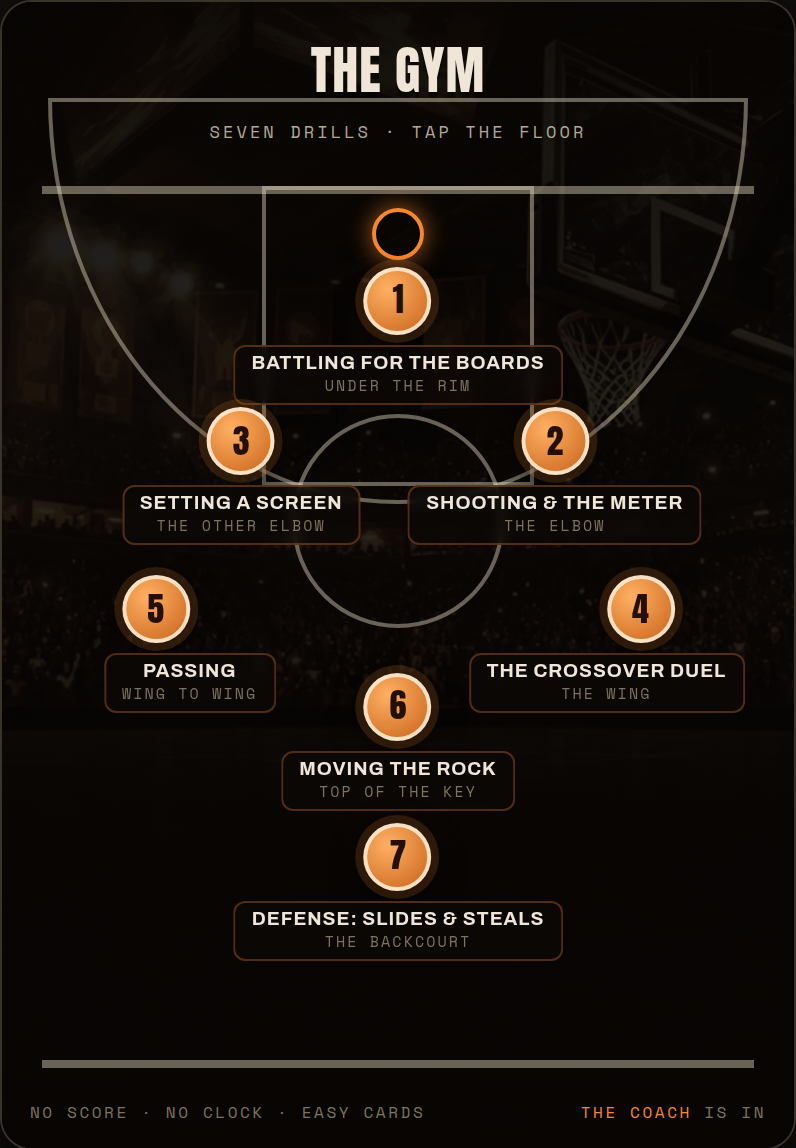
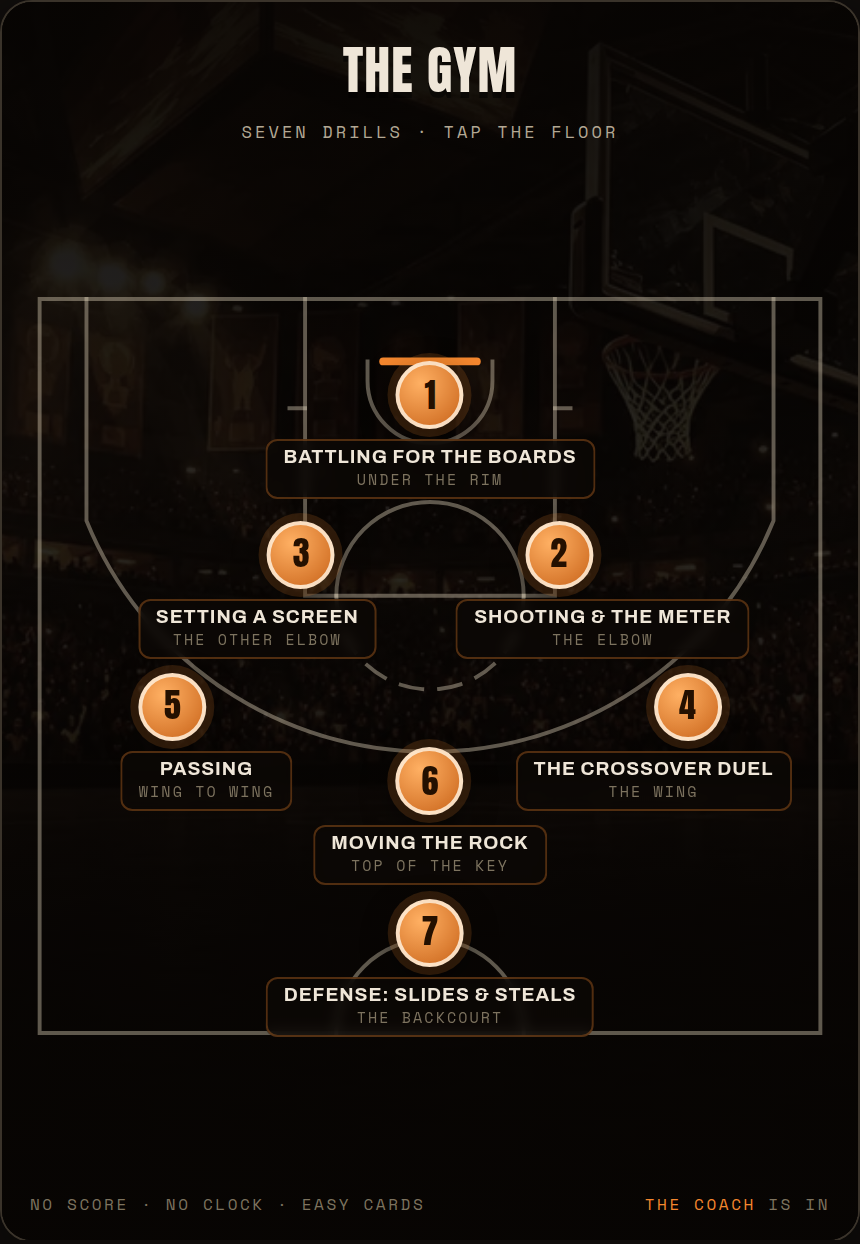
The half court, drawn right this time, and the Gym moves into V0
Aaron: "the half court you made for the gym is not correct. The court
lines are very wrong." He was right and the reason is a rule this repo
already has in writing: build it, source it, or FIND IT ALREADY BUILT.
I invented the geometry with five CSS borders and never measured one of
them.

What was actually wrong, measured against the real court:
  key         38% of the width and 34% deep   should be 32% and 40.4%
  arc         a plain ellipse, sideline to sideline, reaching 36% down
              should reach 61.7%, and the corners should be STRAIGHT
  ft circle   30% wide, floating above the line
              should be 24% and centred ON it
  rim         at 2.5% from the baseline, should be 11.2%
  missing     backboard, restricted area, centre circle, the block

Replaced by docs/play/assets/halfcourt.svg, whose viewBox IS the court:
500 x 470 units at a tenth of a foot each. Corner threes are straight
lines 3 ft off the sideline and the arc meets them at their exact
tangent, 14.198 ft up, which is why the published 14 is really 14.2.
Every measurement is written into the file's desc. The only deliberate
untruth is the stroke width: real lines are 2 in and would render as a
hairline.

The seven stations now sit on real coordinates rather than by eye, and
tools/gym-labels.py lays every puck and label out as a rectangle and
reports overlaps. It found three. Zero now, with the lowest label at
376 px of a 380 px court.
[…]

diff --git a/docs/dev/gym-sample.html b/docs/dev/gym-sample.html
@@ -30,21 +30,17 @@ h1{font-family:Anton;font-weight:400;text-transform:uppercase;font-size:clamp(28
 .gym .hd p{font-family:Mono;font-size:8.5px;letter-spacing:.18em;text-transform:uppercase;
  color:var(--dim);margin:4px 0 0}
 
-/* the floor: a HALF COURT seen from above, drawn from the same geometry the
-   game already draws on its board */
-.floor{position:absolute;left:5%;right:5%;top:16%;bottom:7%;z-index:2}
-.floor .ln{position:absolute;border:2px solid rgba(239,226,200,.42)}
-.base{left:0;right:0;top:0;height:0}
-.key{left:31%;right:31%;top:0;height:34%;border-top:0}
-.circ{left:35%;right:35%;top:26%;aspect-ratio:1;border-radius:50%}
-.arc{left:1%;right:1%;top:-10%;height:46%;border-radius:0 0 50% 50%/0 0 100% 100%;border-top:0}
-.half{left:0;right:0;bottom:0;height:0}
-.rim{position:absolute;left:50%;top:2.5%;width:26px;height:26px;margin-left:-13px;
- border:2.5px solid var(--accent);border-radius:50%;z-index:3;
- box-shadow:0 0 14px -2px var(--accent)}
+/* the floor: the half court, drawn to the real dimensions and living in ONE
+   place, ../play/assets/halfcourt.svg. Its viewBox IS the court, 50 ft by
+   47 ft, so this box keeps aspect-ratio 500/470 and every station below can be
+   placed in real court coordinates rather than by eye.
+   The first cut of this page invented the lines and got five of them wrong.
+   The measurements are in the <desc> of the svg. */
+.floor{position:absolute;left:3%;right:3%;top:23%;aspect-ratio:500/470;z-index:2}
+.floor .ct{display:block;width:100%;height:100%}
 
 /* a station sits WHERE ITS DRILL HAPPENS */
-.st{position:absolute;transform:translate(-50%,-50%);max-width:44%;z-index:5;background:none;border:0;
+.st{position:absolute;transform:translate(-50%,-50%);max-width:62%;z-index:5;background:none;border:0;
  padding:0;cursor:pointer;display:flex;flex-direction:column;align-items:center;gap:5px;
  font-family:inherit;color:inherit;-webkit-tap-highlight-color:transparent}
 .pk{width:34px;height:34px;border-radius:50%;display:grid;place-items:center;
@@ -57,10 +53,14 @@ h1{font-family:Anton;font-weight:400;text-transform:uppercase;font-size:clamp(28
  background:rgba(12,8,6,.74);border:1px solid rgba(245,135,46,.3);border-radius:6px;
  padding:3px 8px;backdrop-filter:blur(3px)}
 .lb b{font-family:Arch;font-size:9.5px;letter-spacing:.05em;text-transform:uppercase}
-/* the wings sit far out, so their labels lean INWARD rather than centring
-   on the puck and reaching back across the lane into station 6 */
-.st[data-k=cross] .lb{margin-right:34px}
-.st[data-k=pass] .lb{margin-left:34px}
+/* Label placement is MEASURED, not eyeballed. tools/gym-labels.py lays the
+   seven pucks and their labels out as rectangles and reports every overlap;
+   these four nudges are what takes it from three collisions to zero, and the
+   lowest label lands at 376 px of a 380 px court. Move a station and re-run it. */
+.st[data-k=shoot]  .lb{margin-left:44px}
+.st[data-k=screen] .lb{margin-right:44px}
+.st[data-k=cross]  .lb{margin-right:34px}
+.st[data-k=pass]   .lb{margin-left:34px}
 .lb i{font-family:Mono;font-style:normal;font-size:7.5px;letter-spacing:.14em;
  text-transform:uppercase;color:var(--faint)}
 @media (hover:hover){.st:hover .pk{transform:scale(1.14);
@@ -90,37 +90,36 @@ live in the Rulebook today, where nobody will ever find them.</p>
     <span class="bg"></span><span class="scrim"></span>
     <div class="hd"><h2>The Gym</h2><p>seven drills · tap the floor</p></div>
     <div class="floor">
-      <span class="ln arc"></span>
-      <span class="ln key"></span>
-      <span class="ln circ"></span>
-      <span class="ln base"></span>
-      <span class="ln half"></span>
-      <span class="rim"></span>
-      <button class="st " style="left:50%;top:17%" data-k="rebound">
+      <img class="ct" src="../play/assets/halfcourt.svg"
+           alt="A half court seen from above, drawn to the real dimensions">
+      <!-- every top/left below is a real spot on the floor, as a percentage of
+           50 ft across and 47 ft deep. The comment on each one is the actual
+           measurement, so a station that drifts can be caught by reading. -->
+      <button class="st" style="left:50%;top:19%" data-k="rebound"><!-- 25 ft, 9 ft: under the rim -->
       <span class="pk"><span class="pn">1</span></span>
       <span class="lb"><b>Battling for the boards</b><i>under the rim</i></span>
     </button>
-<button class="st " style="left:72%;top:33%" data-k="shoot">
+<button class="st" style="left:66%;top:40%" data-k="shoot"><!-- 33 ft, 19 ft: the right elbow, exactly -->
       <span class="pk"><span class="pn">2</span></span>
       <span class="lb"><b>Shooting &amp; the meter</b><i>the elbow</i></span>
     </button>
-<button class="st " style="left:28%;top:33%" data-k="screen">
+<button class="st" style="left:34%;top:40%" data-k="screen"><!-- 17 ft, 19 ft: the left elbow -->
       <span class="pk"><span class="pn">3</span></span>
       <span class="lb"><b>Setting a screen</b><i>the other elbow</i></span>
     </button>
-<button class="st " style="left:84%;top:52%" data-k="cross">
+<button class="st" style="left:82%;top:60%" data-k="cross"><!-- 41 ft, 28 ft: the right wing, a step outside the arc -->
       <span class="pk"><span class="pn">4</span></span>
       <span class="lb"><b>The crossover duel</b><i>the wing</i></span>
     </button>
-<button class="st " style="left:16%;top:52%" data-k="pass">
+<button class="st" style="left:18%;top:60%" data-k="pass"><!-- 9 ft, 28 ft: the left wing -->
       <span class="pk"><span class="pn">5</span></span>
       <span class="lb"><b>Passing</b><i>wing to wing</i></span>
     </button>
-<button class="st " style="left:50%;top:63%" data-k="basics">
+<button class="st" style="left:50%;top:70%" data-k="basics"><!-- 25 ft, 33 ft: top of the key, four feet above the break -->
       <span class="pk"><span class="pn">6</span></span>
       <span class="lb"><b>Moving the rock</b><i>top of the key</i></span>
     </button>
-<button class="st " style="left:50%;top:80%" data-k="steal">
+<button class="st" style="left:50%;top:90%" data-k="steal"><!-- 25 ft, 42 ft: out by the half court line -->
       <span class="pk"><span class="pn">7</span></span>
       <span class="lb"><b>Defense: slides &amp; steals</b><i>the backcourt</i></span>
     </button>
@@ -133,9 +132,15 @@ live in the Rulebook today, where nobody will ever find them.</p>
       Shooting at the elbow. Screens at the other elbow. The crossover out on the wing.
       Defense back in the backcourt. You learn the floor while you pick, and nobody has
       to explain the map.</li>
-    <li><b>The court is drawn, not photographed.</b> Same geometry the game already puts
-      on its board: the arc, the key, the free-throw circle, the rim. It costs nothing and
-      it will always match the real thing.</li>
+    <li><b>The court is drawn, not photographed, and now it is drawn RIGHT.</b>
+      The first version of this page invented the lines and Aaron caught it in one look.
+      It has been replaced by <code>docs/play/assets/halfcourt.svg</code>, whose viewBox
+      is the court itself: 50 ft by 47 ft, one unit per tenth of a foot. Corner threes are
+      straight lines 3 ft off the sideline. The arc is 23 ft 9 in from the middle of the
+      rim and meets those lines at their exact tangent, 14.2 ft up. The key is 16 by 19,
+      the free throw circle is 12 across and sits ON the line with its far half dashed,
+      and the restricted area, the backboard and the block are all where they belong.
+      Every number is written into the file. Nothing is eyeballed.</li>
     <li><b>The room behind it is a PLACEHOLDER.</b> That is a packed arena, and a gym is
       the opposite of a packed arena. The real one has to be sourced: an empty practice
       gym, wide, from about mid-court height, wood floor, banked bleachers or cinderblock,

diff --git a/tools/gym-labels.py b/tools/gym-labels.py
@@ -1,0 +1,85 @@
+#!/usr/bin/env python3
+"""Does anything on the Gym floor overlap anything else?
+
+The Gym mockup puts seven drill stations on a half court inside a phone frame.
+Seven labels on a 404 px wide court will collide unless somebody checks, and
+"looks fine to me" is exactly the judgement that put the wrong court lines on
+this page in the first place. So this lays every puck and every label out as a
+rectangle and prints the overlaps.
+
+    python3 tools/gym-labels.py
+
+Reads the positions straight out of docs/dev/gym-sample.html, so it cannot
+drift from the page it is checking. Exits 1 if anything overlaps or spills off
+the court. The four .lb margin nudges in that file are what this found.
+"""
+import re, sys, pathlib
+
+PAGE = pathlib.Path(__file__).resolve().parent.parent / 'docs/dev/gym-sample.html'
+
+# The court box inside the phone frame, in CSS pixels, at the 430 px frame width
+# the mockup is drawn at. .gym is 430 wide; .floor is left:3% right:3% of it and
+# keeps aspect-ratio 500/470, which is the real half court, 50 ft by 47 ft.
+FRAME_W = 430.0
+COURT_W = FRAME_W * 0.94
+COURT_H = COURT_W * 470 / 500
+
+PUCK, GAP, LBH = 34, 5, 30        # .pk is 34 px, the flex gap is 5, .lb is ~30 tall
+
+# label widths measured off a real render, and the .lb margin nudge in the CSS
+LABEL = {
+    'rebound': (200,   0), 'shoot': (152,  44/2), 'screen': (126, -44/2),
+    'cross':   (136, -34/2), 'pass': ( 72,  34/2), 'basics': (124,   0),
+    'steal':   (206,   0),
+}
+
+ST = re.compile(r'style="left:(\d+)%;top:(\d+)%"\s+data-k="(\w+)"')
+
+
+def rects():
+    html = PAGE.read_text(encoding='utf-8')
+    out = []
+    for xp, yp, key in ST.findall(html):
+        xp, yp = float(xp), float(yp)
+        lw, nudge = LABEL[key]
+        cx, cy = xp / 100 * COURT_W, yp / 100 * COURT_H
+        top = cy - (PUCK + GAP + LBH) / 2
+        out.append((key, xp, yp,
+                    (cx - PUCK / 2, cx + PUCK / 2, top, top + PUCK),
+                    (cx - lw / 2 + nudge, cx + lw / 2 + nudge,
+                     top + PUCK + GAP, top + PUCK + GAP + LBH)))
+    return out
+
+
+def main():
+    rs = rects()
+    if len(rs) != 7:
+        print(f'FAIL  found {len(rs)} stations, expected 7'); return 1
+    bad = 0
+    for i in range(len(rs)):
+        for j in range(i + 1, len(rs)):
+            a, b = rs[i], rs[j]
+            for an, ar in (('puck', a[3]), ('label', a[4])):
+                for bn, br in (('puck', b[3]), ('label', b[4])):
+                    ox = min(ar[1], br[1]) - max(ar[0], br[0])
+                    oy = min(ar[3], br[3]) - max(ar[2], br[2])
+                    if ox > 0 and oy > 0:
+                        print(f'FAIL  {a[0]} {an} overlaps {b[0]} {bn} '
+                              f'by {ox:.0f} x {oy:.0f} px')
+                        bad += 1
+    for key, xp, yp, puck, lab in rs:
+        if lab[0] < -14 or lab[1] > COURT_W + 14 or lab[3] > COURT_H + 6:
+            print(f'FAIL  {key} label spills off the court '
+                  f'({lab[0]:.0f}..{lab[1]:.0f} of 0..{COURT_W:.0f}, '
+                  f'bottom {lab[3]:.0f} of {COURT_H:.0f})')
+            bad += 1
+    print(f'\ncourt {COURT_W:.0f} x {COURT_H:.0f} px = 50 ft x 47 ft')
+    for key, xp, yp, puck, lab in rs:
+        print(f'  {key:8} {xp/100*50:5.1f} ft across, '
+              f'{yp/100*47:5.1f} ft from the baseline')
+    print(f'\n{"FAIL: " + str(bad) + " collisions" if bad else "PASS: nothing overlaps"}')
+    return 1 if bad else 0
+
+
+if __name__ == '__main__':
+    sys.exit(main())

diff --git a/V0.md b/V0.md
@@ -627,6 +627,10 @@ The short of it, so this line is useful on its own:
   Claude writes prompts, Aaron generates and picks, Claude composites.
 - **POST-LAUNCH.** Bigger than the rest of the roadmap combined and it must not
   sit in front of the twenty friends.
+- **ONE PIECE OF IT HAS SINCE BEEN SPLIT OUT AND IS IN V0: the Gym, as B14.**
+  Not a walk-back of this ruling. The Gym is one room with no camera, no back
+  stack, no town and no walking figure, which is the first sixty lines of the
+  spike and none of the rest. The rest of THE PLACES stays exactly here.
 - **The next move is a half-day SPIKE** using art already in the repo, to find
   out whether a push-in on a phone feels like walking or like a zoom. Nothing is
   commissioned until that answers.
@@ -642,7 +646,7 @@ heading so it goes in as a block rather than in slivers:
 |---|---|
 | **B7** | The coach as a first-run guide. Aaron moved this INTO Track B on 08-07. The biggest item on the track by a distance |
 | **D7** | The coach carrying some of the Daily Five's theatre |
-| The Gym as a ROOM | *"you are in a gym like space and there are different things you can click to run different drills."* Proposed: a top-down half court with each drill sitting WHERE that drill happens. Shooting on the arc, crossovers on the wing, screens at the elbow, rebounding under the rim. Needs a sourced gym interior behind it |
+| The Gym as a ROOM | **Now IN V0. See B14 below.** Sample built 08-08, court corrected 08-09 |
 | B5's drill defects | The coach card covering the board during drills · drills refusing off-drill moves |
 | The `bk_install_seen` question | The welcome fires once per phone forever. Filed 08-07, unanswered |
 
@@ -651,6 +655,57 @@ heading so it goes in as a block rather than in slivers:
 answered yet, which is **how much the Coach is allowed to say before he is
 annoying.** Answered once, it settles all five. Answered five times, it will be
 answered five different ways.
+
+#### B14 · THE GYM AS A ROOM — pulled INTO V0 by Aaron, 2026-08-09
+
+> *"I do want to try and get the Gym room ready for the 20 if it's possible!
+> It'll be the last thing we do before release."*
+
+**IN SCOPE, and it is the LAST item before release.** Everything else on Track B
+goes first; this ships on top of a finished build or it does not ship. That
+ordering is Aaron's and it is also the thing that makes saying yes safe: if the
+art does not land in time, cutting B8 costs nothing, because nothing is built on
+top of it.
+
+**Why it can be in V0 when THE PLACES cannot.** They are not the same job and it
+took building the sample to see it. THE PLACES is a node GRAPH: many rooms, a
+camera that pushes in and pulls back, a back stack, a town, a walking figure,
+about twelve commissioned images. B8 is **one room, one image, seven hotspots,
+no camera, no walking, no graph.** The seven destinations already exist and
+already work. Measured against the spike, B8 uses roughly the first sixty lines
+of it and none of the rest.
+
+**What actually has to be built** (the honest list, not the hopeful one):
+- A `gym` screen: background image, scrim, seven positioned buttons, a back
+  control. Everything else already routes.
+- Each button calls the drill that `coach.js` runs today. No new drill content.
+- Point The Gym menu row at the room instead of at the Rulebook, and decide
+  where the Rulebook then lives (see the open question below).
+- Small screen behaviour: the seven labels only just fit at 430 px and they were
+  measured to get there. At 390 px they need re-measuring, which is
+  `python3 tools/gym-labels.py` and not a rethink.
+- `gym-check.mjs`: seven buttons present, each reaches its drill, back returns,
+  nothing overlaps at 390 and at 430.
+
+**The one real dependency, and it is on Aaron's desk:** a gym interior image.
+The sample uses a packed arena as a stand-in and a gym is the opposite of a
+packed arena. Spec, so it can be generated in the same Firefly pass as
+everything in `design/COURT-SKINS.md`: an EMPTY practice gym, wide, eye level or
+slightly above, wood floor, cinderblock or banked bleachers, warm practice
+lighting, nobody in it, 2400 px or wider, and shot WIDE because the phone frame
+crops hard. The spike measured that crop: **a 16:9 image in a 390 px portrait
+frame shows 36% of its width.** Anything that matters must live in the middle
+third.
+
+**Still open, and it is a taste call, not a build one:** whether the Rulebook
+becomes an eighth station in the room (a clipboard on the sideline) or keeps its
+own door. And whether a drill you have finished shows it, which is the cheapest
+progress feeling in the whole game and about six lines.
+
+**Where the work already is:** `docs/dev/gym-sample.html` and
+`docs/dev/gym-sample.png`. The half court in it is now
+`docs/play/assets/halfcourt.svg`, drawn to the real dimensions, every
+measurement written into the file.
 
 #### B4 · shipped 2026-08-08, and it was HALF the job I said it was
 
@@ -996,9 +1051,10 @@ each, each frees a slice.
 
 ---
 
-### TRACK B · BUILD — the 27 items
+### TRACK B · BUILD — the 28 items
 
-**10 done · 1 part-done · 16 not started** (checked against the code 08-06).
+**10 done · 1 part-done · 16 not started** (checked against the code 08-06)
+**plus B14, added 08-09**, which is the only row that has moved since.
 Ordered by V0's own test: *will this make twenty people play it twice and show it
 to someone else?*
 
@@ -1019,6 +1075,7 @@ to someone else?*
 | **B10** | **The heat sound.** | The one missing third of a shipped feature — V0 asked for popup, sound and readout; two of three landed. `heatCard()` plays nothing. |
 | **B11** | **"Did you know" blurbs in the Daily Five.** Database half is already done: the `note` column ships, the emitter carries it, `audit.py` guards it. | Only the display is left, and it is scoped to `daily.js` — ruled 08-05, blurbs live in the Daily Five and mini-games, never in the race to 11. Cheap, and the notes get written for free during Track A. |
 | **B12** | **On-court name tags · fix the 27 lazy questions · CPU-vs-CPU headless sanity test · scoreboard tap-to-zoom.** | Polish and the safety net. The CPU-vs-CPU test is the one that catches what twenty humans would otherwise find for you. |
+| **B14** | **THE GYM AS A ROOM.** *(Aaron, 08-09: "I do want to try and get the Gym room ready for the 20 if it's possible! It'll be the last thing we do before release.")* One room, one image, seven hotspots pointing at drills that already work. Full spec under NEXT WEEK IS THE COACH above. | **Below B13 on purpose, because Aaron put it there: it is the LAST thing before release.** It is out of order on merit and in order on instruction, and the instruction is right, because nothing gets built on top of it and so cutting it costs nothing. Blocked on one sourced gym interior. |
 | **B13** | **Player skills · TV / couch mode · in-game chat · trash talk.** Chat ships WITH mute, canned phrases and a report path — not as follow-ups. | The four Aaron pulled forward and kept after being shown the cost. **That is his call and it is not being re-litigated** — they are last because they are the biggest, not because they are optional. |
 
 **On Aaron's desk for Track B:** turn on branch protection for `main`, and delete
